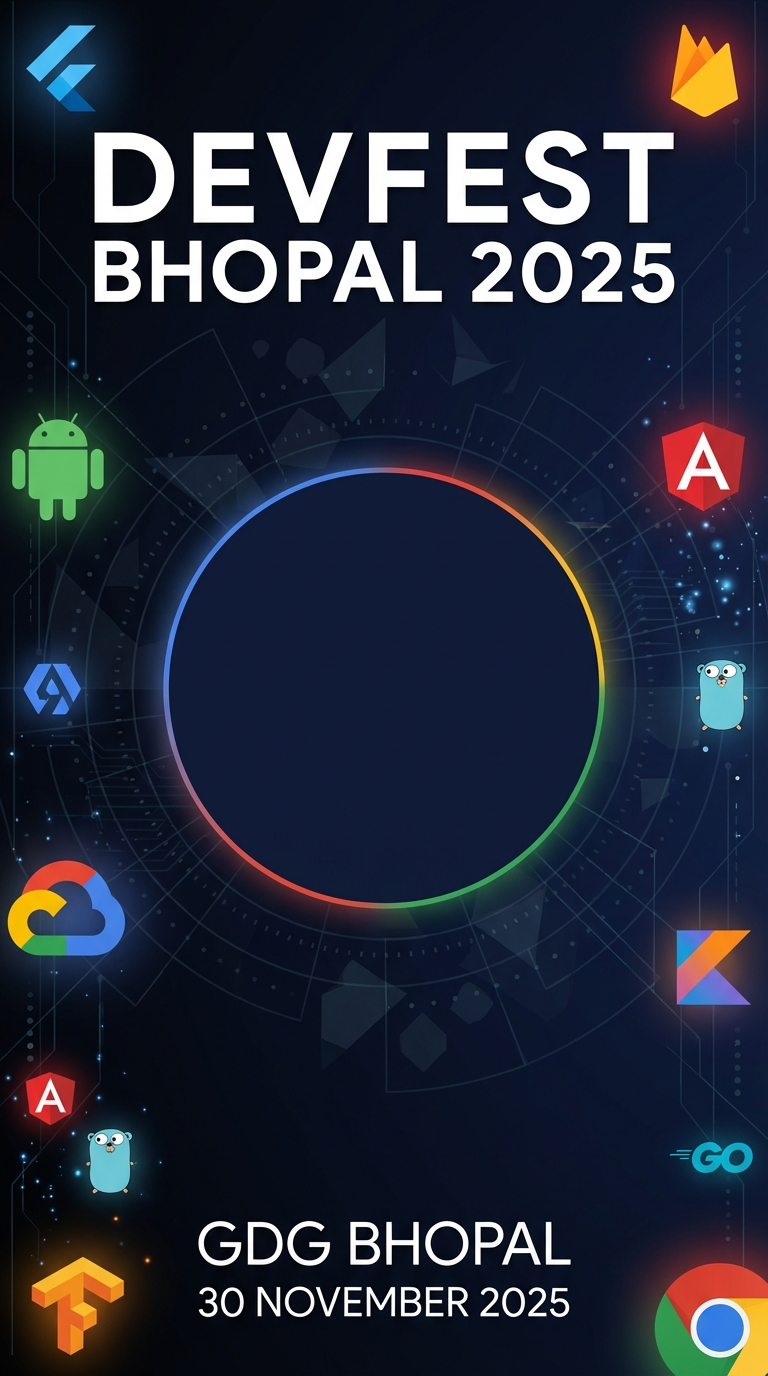
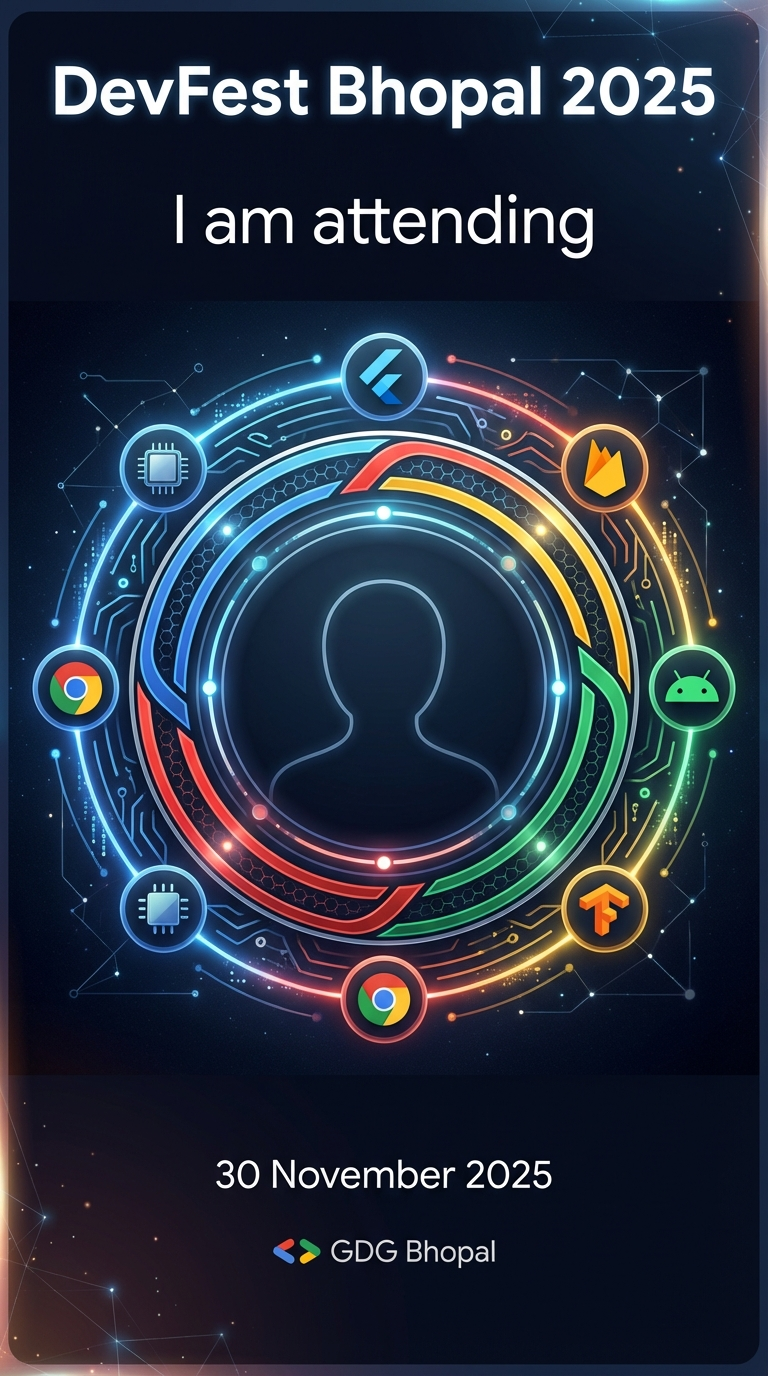
added more posters

diff --git a/src/components/PosterPreview.tsx b/src/components/PosterPreview.tsx
@@ -1,10 +1,10 @@
 import { useState } from "react";
 import { Card } from "@/components/ui/card";
 import { Button } from "@/components/ui/button";
-import { Camera, Upload, Square, Circle } from "lucide-react";
+import { Camera, Upload, Square, Circle, Hexagon, Diamond, Octagon } from "lucide-react";
 
-export type FrameType = "square" | "circle";
-export type PosterType = "poster1" | "poster2";
+export type FrameType = "circle" | "squircle" | "hexagon" | "badge" | "diamond";
+export type PosterType = "poster1" | "poster2" | "poster3" | "poster4";
 
 interface PosterPreviewProps {
   userImage?: string;
@@ -27,14 +27,16 @@ export const PosterPreview = ({
 }: PosterPreviewProps) => {
   const posterImages = {
     poster1: "/uploads/devfest-poster1.png",
-    poster2: "/uploads/devfest-poster2.png"
+    poster2: "/uploads/devfest-poster2.png",
+    poster3: "/uploads/devfest-poster3.png",
+    poster4: "/uploads/devfest-poster4.png"
   };
   return (
     <div className="flex flex-col items-center space-y-4 sm:space-y-6">
       {/* Poster Selection */}
       <div className="flex flex-col items-center space-y-3">
-        <span className="text-sm font-medium text-muted-foreground">Choose Poster:</span>
-        <div className="flex items-center space-x-4">
+        <span className="text-sm font-medium text-muted-foreground">Choose Poster Template:</span>
+        <div className="grid grid-cols-2 gap-3">
           <div
             className={`relative cursor-pointer transition-all duration-200 ${posterType === "poster1" ? "ring-2 ring-primary scale-105" : "hover:scale-102"
               }`}
@@ -57,31 +59,28 @@ export const PosterPreview = ({
               className="w-20 h-20 sm:w-24 sm:h-24 object-cover rounded-lg border-2 border-muted"
             />
           </div>
-        </div>
-      </div>
-
-      {/* Frame Type Selection */}
-      <div className="flex flex-col sm:flex-row items-center space-y-2 sm:space-y-0 sm:space-x-4">
-        <span className="text-sm font-medium text-muted-foreground">Frame Shape:</span>
-        <div className="flex items-center space-x-2">
-          <Button
-            variant={frameType === "square" ? "default" : "outline"}
-            size="sm"
-            onClick={() => onFrameTypeChange("square")}
-            className="flex items-center space-x-2"
+          <div
+            className={`relative cursor-pointer transition-all duration-200 ${posterType === "poster3" ? "ring-2 ring-primary scale-105" : "hover:scale-102"
+              }`}
+            onClick={() => onPosterTypeChange("poster3")}
           >
-            <Square className="w-4 h-4" />
-            <span>Square</span>
-          </Button>
-          <Button
-            variant={frameType === "circle" ? "default" : "outline"}
-            size="sm"
-            onClick={() => onFrameTypeChange("circle")}
-            className="flex items-center space-x-2"
+            <img
+              src={posterImages.poster3}
+              alt="Poster Option 3"
+              className="w-20 h-20 sm:w-24 sm:h-24 object-cover rounded-lg border-2 border-muted"
+            />
+          </div>
+          <div
+            className={`relative cursor-pointer transition-all duration-200 ${posterType === "poster4" ? "ring-2 ring-primary scale-105" : "hover:scale-102"
+              }`}
+            onClick={() => onPosterTypeChange("poster4")}
           >
-            <Circle className="w-4 h-4" />
-            <span>Circle</span>
-          </Button>
+            <img
+              src={posterImages.poster4}
+              alt="Poster Option 4"
+              className="w-20 h-20 sm:w-24 sm:h-24 object-cover rounded-lg border-2 border-muted"
+            />
+          </div>
         </div>
       </div>
 
@@ -98,8 +97,7 @@ export const PosterPreview = ({
           {/* User Image Frame - positioned in the middle center of the poster */}
           <div className="absolute left-1/2 top-1/2 transform -translate-x-1/2 -translate-y-1/2">
             <div
-              className={`relative w-40 h-40 sm:w-48 sm:h-48 border-2 sm:border-4 border-white shadow-lg overflow-hidden ${frameType === "circle" ? "poster-frame-circle" : "poster-frame-square"
-                }`}
+              className={`relative w-40 h-40 sm:w-48 sm:h-48 border-2 sm:border-4 border-white shadow-lg overflow-hidden poster-frame-${frameType}`}
             >
               {userImage ? (
                 <img

diff --git a/src/hooks/usePosterGenerator.ts b/src/hooks/usePosterGenerator.ts
@@ -6,7 +6,9 @@ export const usePosterGenerator = () => {
 
   const posterImages = {
     poster1: "/uploads/devfest-poster1.png",
-    poster2: "/uploads/devfest-poster2.png"
+    poster2: "/uploads/devfest-poster2.png",
+    poster3: "/uploads/devfest-poster3.png",
+    poster4: "/uploads/devfest-poster4.png"
   };
 
   const generatePoster = async (
@@ -45,23 +47,76 @@ export const usePosterGenerator = () => {
 
           ctx.save();
 
-          if (frameType === "circle") {
-            ctx.beginPath();
-            ctx.arc(
-              frameX + frameSize / 2,
-              frameY + frameSize / 2,
-              frameSize / 2,
-              0,
-              Math.PI * 2
-            );
-            ctx.clip();
-          } else {
-            ctx.beginPath();
-            ctx.rect(frameX, frameY, frameSize, frameSize);
-            ctx.clip();
-          }
+          // Always use circle frame
+          ctx.beginPath();
+          ctx.arc(
+            frameX + frameSize / 2,
+            frameY + frameSize / 2,
+            frameSize / 2,
+            0,
+            Math.PI * 2
+          );
+          ctx.clip();
 
           ctx.drawImage(userImg, frameX, frameY, frameSize, frameSize);
+          ctx.restore();
+
+          // Add fun, social-media-friendly text overlay
+          ctx.save();
+
+          // "I'M ATTENDING 🎉" text at the top
+          ctx.font = "bold 68px Arial, sans-serif";
+          ctx.fillStyle = "#FFFFFF";
+          ctx.strokeStyle = "#000000";
+          ctx.lineWidth = 4;
+          ctx.textAlign = "center";
+          ctx.textBaseline = "middle";
+
+          const topText = "I'M ATTENDING 🎉";
+          const topY = frameY - frameSize / 2 - 100;
+          ctx.strokeText(topText, posterWidth / 2, topY);
+          ctx.fillText(topText, posterWidth / 2, topY);
+
+          // "DEVFEST BHOPAL 2025" text - larger and colorful
+          ctx.font = "bold 88px Arial, sans-serif";
+
+          // Create gradient for DevFest text using Google colors
+          const gradient = ctx.createLinearGradient(0, topY + 120, posterWidth, topY + 120);
+          gradient.addColorStop(0, "#4285F4");    // Google Blue
+          gradient.addColorStop(0.33, "#EA4335"); // Google Red
+          gradient.addColorStop(0.66, "#FBBC04"); // Google Yellow
+          gradient.addColorStop(1, "#34A853");    // Google Green
+
+          ctx.fillStyle = gradient;
+          ctx.strokeStyle = "#000000";
+          ctx.lineWidth = 5;
+
+          const mainText = "DEVFEST";
+          ctx.strokeText(mainText, posterWidth / 2, topY + 100);
+          ctx.fillText(mainText, posterWidth / 2, topY + 100);
+
+          ctx.font = "bold 74px Arial, sans-serif";
+          const subText = "BHOPAL 2025 🚀";
+          ctx.strokeText(subText, posterWidth / 2, topY + 190);
+          ctx.fillText(subText, posterWidth / 2, topY + 190);
+
+          // Event details at the bottom
+          ctx.font = "bold 54px Arial, sans-serif";
+          ctx.fillStyle = "#FBBC04"; // Google Yellow for fun pop
+          ctx.strokeStyle = "#000000";
+          ctx.lineWidth = 3;
+
+          const dateText = "📅 30 NOV 2025";
+          const bottomY = frameY + frameSize / 2 + 120;
+          ctx.strokeText(dateText, posterWidth / 2, bottomY);
+          ctx.fillText(dateText, posterWidth / 2, bottomY);
+
+          ctx.font = "bold 58px Arial, sans-serif";
+          ctx.fillStyle = "#FFFFFF";
+          const funText = "SEE YOU THERE! 🎊";
+          ctx.strokeText(funText, posterWidth / 2, bottomY + 75);
+          ctx.fillText(funText, posterWidth / 2, bottomY + 75);
+
           ctx.restore();
 
           const dataURL = canvas.toDataURL("image/png", 1.0);

diff --git a/src/index.css b/src/index.css
@@ -149,13 +149,27 @@ All colors MUST be HSL.
   }
 
   /* Poster frame styles */
-  .poster-frame-square {
-    clip-path: none;
-    border-radius: 12px;
-  }
-
   .poster-frame-circle {
     clip-path: circle(50%);
     border-radius: 50%;
+  }
+
+  .poster-frame-squircle {
+    border-radius: 25%;
+  }
+
+  .poster-frame-hexagon {
+    clip-path: polygon(25% 0%, 75% 0%, 100% 50%, 75% 100%, 25% 100%, 0% 50%);
+  }
+
+  .poster-frame-badge {
+    clip-path: polygon(
+      0% 15%, 0% 85%, 15% 100%, 85% 100%, 100% 85%, 
+      100% 15%, 85% 0%, 15% 0%
+    );
+  }
+
+  .poster-frame-diamond {
+    clip-path: polygon(50% 0%, 100% 50%, 50% 100%, 0% 50%);
   }
 }

diff --git a/src/pages/Index.tsx b/src/pages/Index.tsx
@@ -277,10 +277,10 @@ const Index = () => {
               </div>
               <div>
                 <h1 className="text-xl font-bold font-display text-foreground">
-                  DevFest Bhopal 2025 - Poster Creator
+                  DevFest Bhopal 2025 🎉 - Poster Creator
                 </h1>
                 <p className="text-sm text-muted-foreground">
-                  Create your personalized poster for Central India's Biggest Developer Festival!
+                  Create your awesome poster and show the world you're attending! 🚀
                 </p>
               </div>
             </div>
